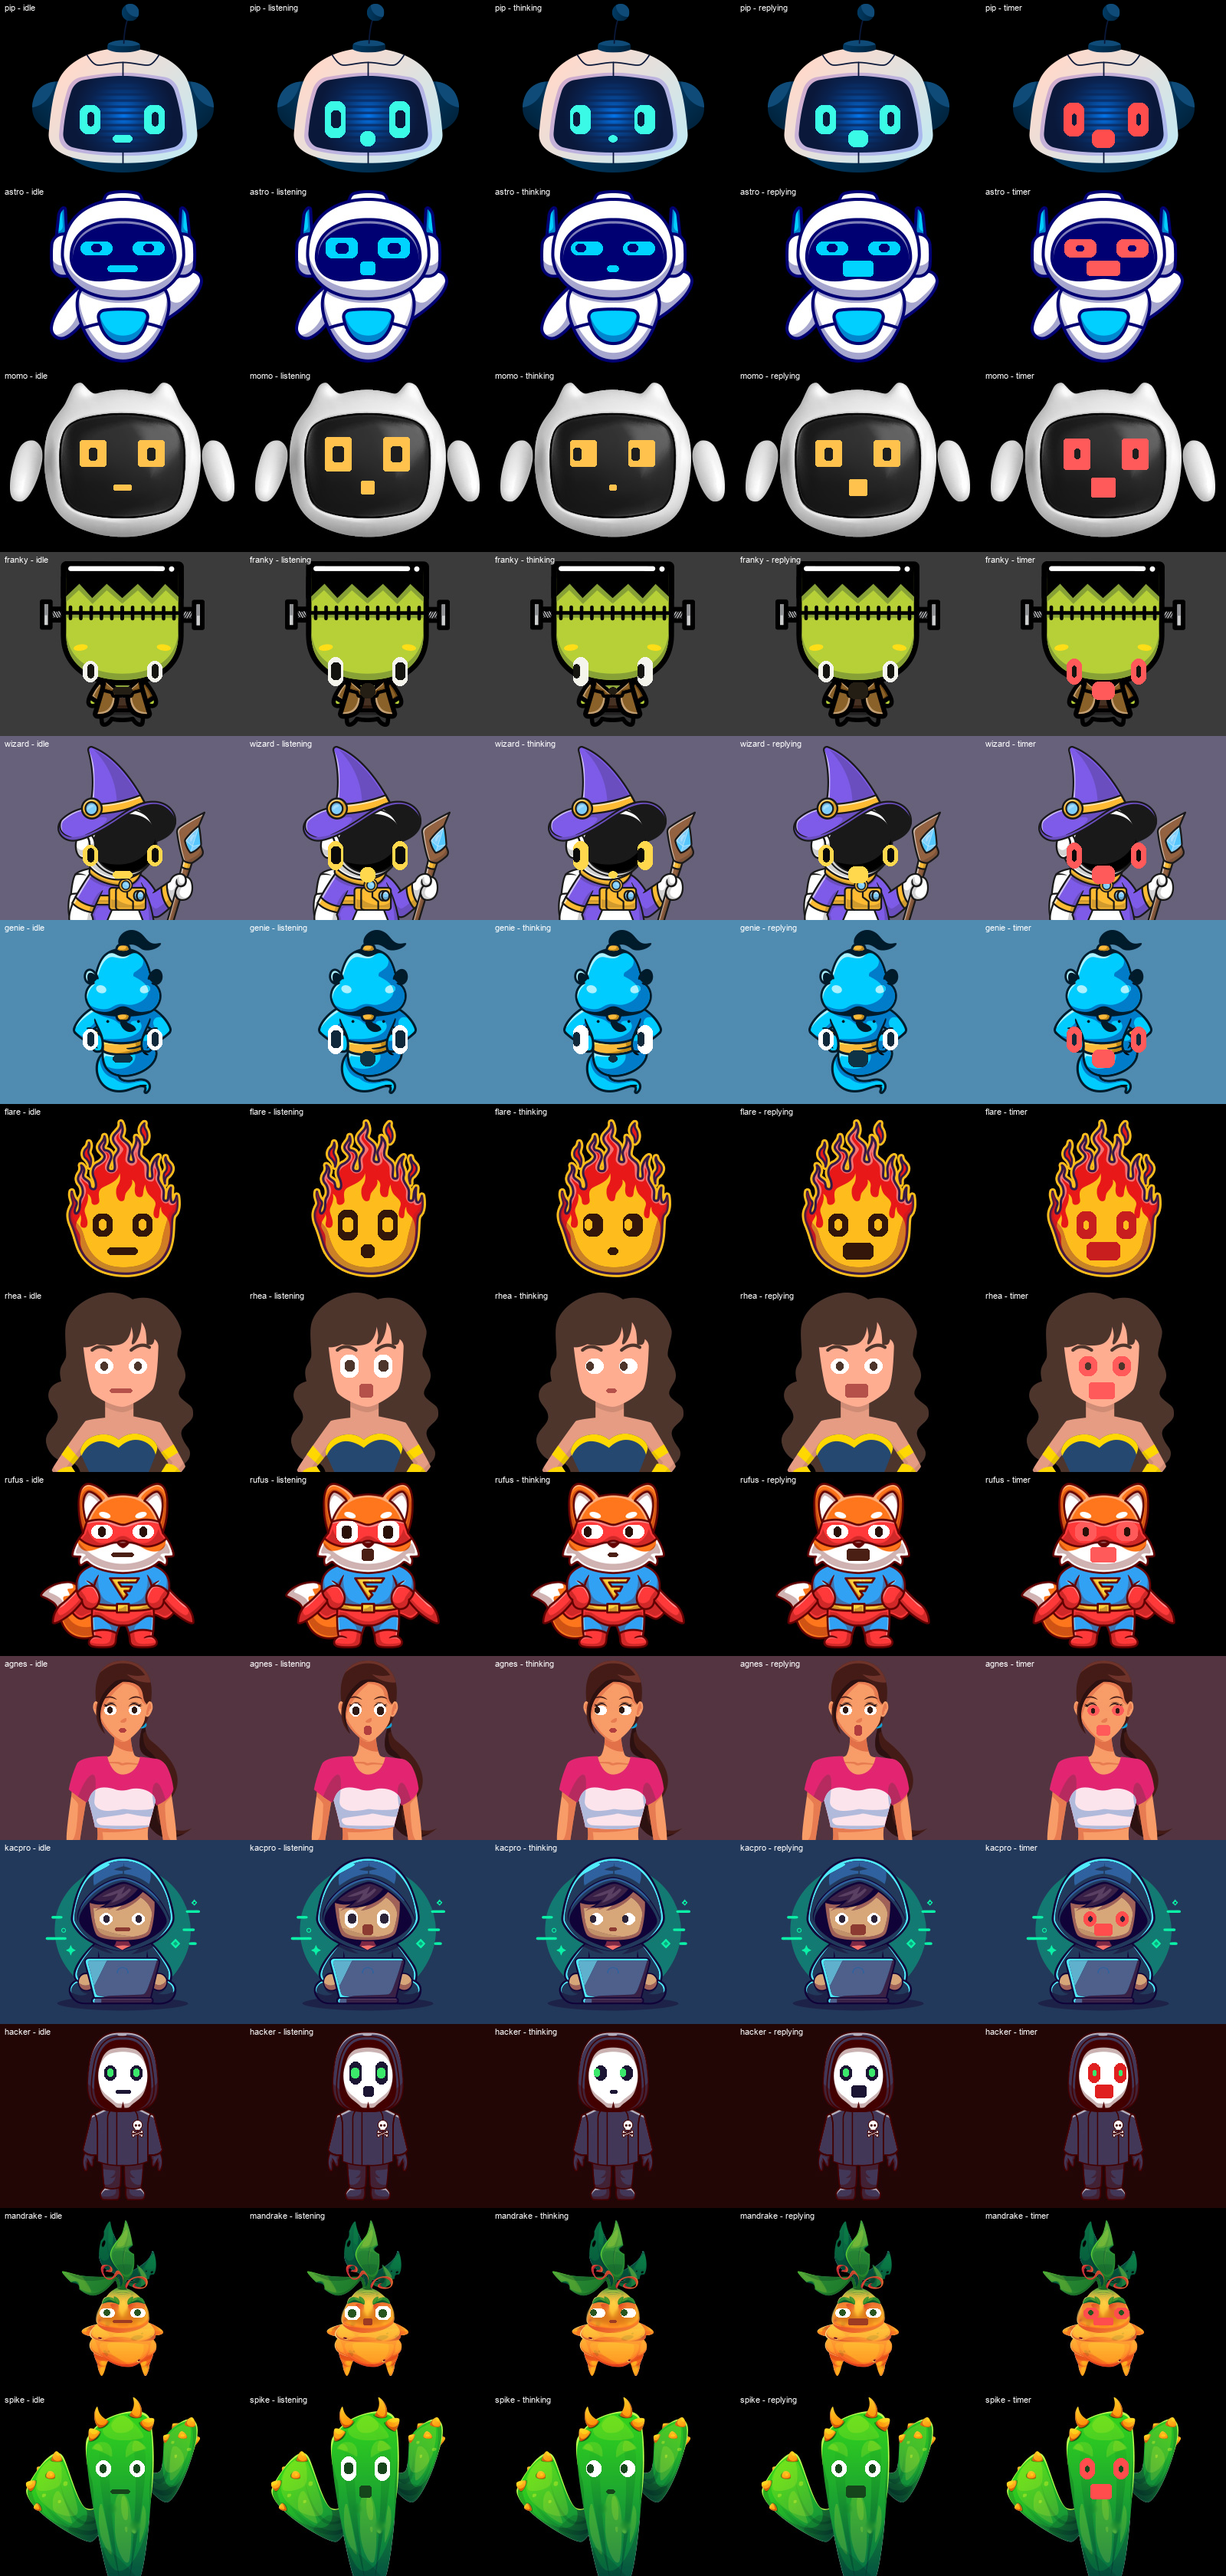
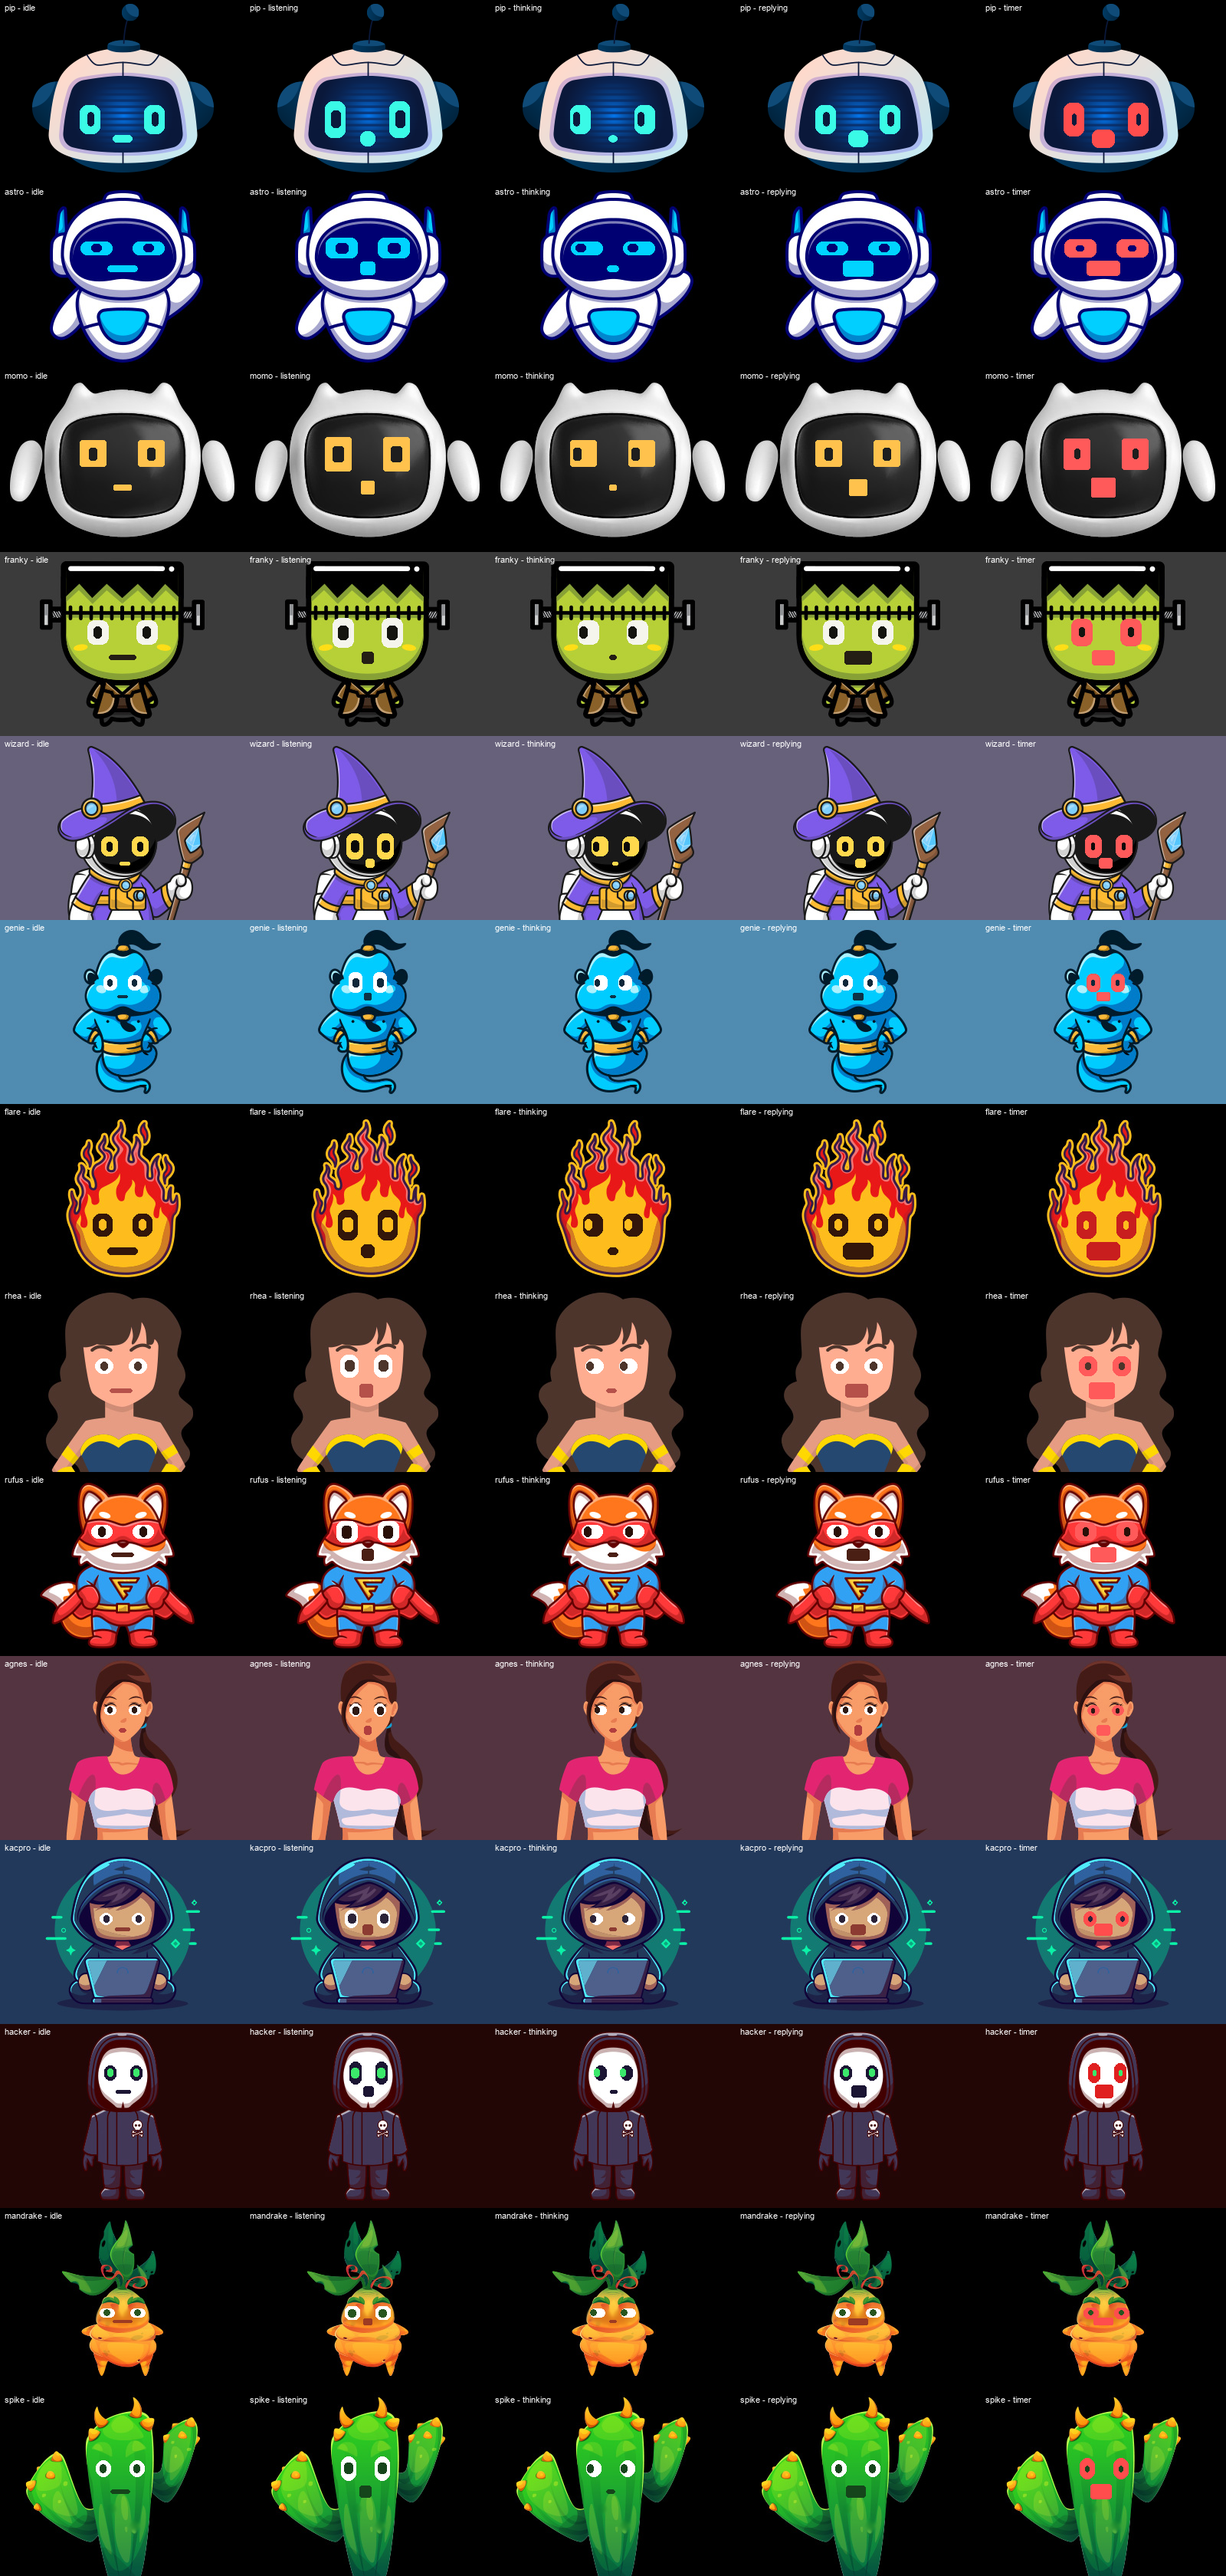
Fix the generated-file check, and the drift it was hiding
check_generated.py compared bytes. The generators write "\n" and a
Windows checkout with core.autocrlf=true holds "\r\n", so it reported all
seven generated characters as drifted on every run, everywhere. A check
that always fails says nothing, and this one had something to say.

`skip: true` on page_face was added to the seven files by hand when the
carousel landed, and never to the generators. Running any generator would
have dropped the line and put the character's page back into the swipe
ring, with no diff to explain it - exactly the failure this script exists
to catch. The generators emit it now, and the comparison normalises line
endings.

characters.png goes with them. The renderer behind it reads a character's
substitutions out of its YAML and took a comment in column 0 for the end
of the block; franky, genie, momo and wizard each have one in the middle
of theirs, so those four rows were drawn with the engine's defaults,
which are pip's numbers. Regenerated with all fourteen correct.

diff --git a/scripts/check_generated.py b/scripts/check_generated.py
@@ -36,13 +36,21 @@ def generated_files():
         if not (fn.startswith("gen_") and fn.endswith(".py")):
             continue
         text = io.open(os.path.join(GEN, fn), encoding="utf-8").read()
-        # Kazdy literal konczacy sie na .yaml. Szersze niz szukanie konkretnej
-        # zmiennej: gen_scope_vu.py sklada sciezke inaczej niz reszta (pisze dwa
-        # pliki), a wersja tego skryptu pilnujaca tylko jednego wzorca po cichu
-        # pomijala oba - czyli nie sprawdzala akurat tych, ktore najlatwiej
-        # przeoczyc.
-        for m in re.finditer(r'"([A-Za-z0-9_]+\.yaml)"', text):
-            names.add(m.group(1))
+        # Literal .yaml Z LINII, KTORA COS ZAPISUJE - czyli przypisanie do OUT
+        # albo open(..., "w"). Oba ksztalty wystepuja: reszta generatorow ma
+        # `OUT = os.path.join(...)`, gen_scope_vu.py sklada sciezke w wywolaniu
+        # open i pisze dwa pliki, a wersja pilnujaca tylko jednego wzorca po
+        # cichu pomijala oba.
+        #
+        # Sam literal nie wystarcza: gen_picker.py CZYTA base/screens/face.yaml
+        # i pliki postaci, zeby zebrac ich liczby. Wersja bez tego filtra brala
+        # face.yaml za plik generowany i wywracala sie, szukajac go w base/faces.
+        for line in text.splitlines():
+            if not (re.search(r"\bOUT\w*\s*=", line) or
+                    re.search(r'open\(.*"w"', line)):
+                continue
+            for m in re.finditer(r'"([A-Za-z0-9_]+\.yaml)"', line):
+                names.add(m.group(1))
     return sorted(names)
 
 
@@ -69,7 +77,11 @@ def main():
     for name in targets:
         path = os.path.join(FACES, name)
         after = io.open(path, encoding="utf-8", newline="").read()
-        if after != before[name]:
+        # Porownanie po normalizacji koncow linii. Generatory pisza "\n", a na
+        # Windows z core.autocrlf=true kopia robocza ma "\r\n", wiec porownanie
+        # bajt w bajt zglaszalo rozjazd wszystkich siedmiu plikow zawsze i u
+        # kazdego - czyli mowilo "FAIL" tam, gdzie nie bylo zadnej roznicy.
+        if after.replace("\r\n", "\n") != before[name].replace("\r\n", "\n"):
             drifted.append(name)
         # Przywracamy ZAWSZE, takze gdy sie zgadza - ten skrypt niczego nie zmienia.
         io.open(path, "w", encoding="utf-8", newline="").write(before[name])

diff --git a/scripts/gen/gen_scope_vu.py b/scripts/gen/gen_scope_vu.py
@@ -253,6 +253,7 @@ interval:
 lvgl:
   pages:
     - id: page_face
+      skip: true          # phase page / home's tap-toggle alt, never a carousel stop
       bg_color: ${scope_bg_color}
       # No scrollbar. These pages are drawn to fill the screen and there is
       # nothing to scroll to, but content sized to exactly 240 px renders a hair
@@ -494,6 +495,7 @@ interval:
 lvgl:
   pages:
     - id: page_face
+      skip: true          # phase page / home's tap-toggle alt, never a carousel stop
       bg_color: ${vu_bg_color}
       # No scrollbar. These pages are drawn to fill the screen and there is
       # nothing to scroll to, but content sized to exactly 240 px renders a hair

diff --git a/scripts/gen/gen_nixie.py b/scripts/gen/gen_nixie.py
@@ -233,6 +233,7 @@ interval:
 lvgl:
   pages:
     - id: page_face
+      skip: true          # phase page / home's tap-toggle alt, never a carousel stop
       bg_color: ${nixie_bg_color}
       # No scrollbar. These pages are drawn to fill the screen and there is
       # nothing to scroll to, but content sized to exactly 240 px renders a hair

diff --git a/scripts/gen/gen_kitt.py b/scripts/gen/gen_kitt.py
@@ -168,6 +168,7 @@ interval:
 lvgl:
   pages:
     - id: page_face
+      skip: true          # phase page / home's tap-toggle alt, never a carousel stop
       bg_color: ${kitt_bg_color}
       # No scrollbar. These pages are drawn to fill the screen and there is
       # nothing to scroll to, but content sized to exactly 240 px renders a hair

diff --git a/scripts/gen/gen_crt.py b/scripts/gen/gen_crt.py
@@ -257,6 +257,7 @@ interval:
 lvgl:
   pages:
     - id: page_face
+      skip: true          # phase page / home's tap-toggle alt, never a carousel stop
       bg_color: ${crt_bg_color}
       # No scrollbar. These pages are drawn to fill the screen and there is
       # nothing to scroll to, but content sized to exactly 240 px renders a hair

diff --git a/scripts/gen/gen_pixel.py b/scripts/gen/gen_pixel.py
@@ -270,6 +270,7 @@ interval:
 lvgl:
   pages:
     - id: page_face
+      skip: true          # phase page / home's tap-toggle alt, never a carousel stop
       bg_color: 0x000000
       # No scrollbar. These pages are drawn to fill the screen and there is
       # nothing to scroll to, but content sized to exactly 240 px renders a hair

diff --git a/scripts/gen/gen_rain.py b/scripts/gen/gen_rain.py
@@ -281,6 +281,7 @@ interval:
 lvgl:
   pages:
     - id: page_face
+      skip: true          # phase page / home's tap-toggle alt, never a carousel stop
       bg_color: 0x000000
       # NO SCROLLBAR. The columns are sized to fill the screen exactly - twelve
       # rows of 16 px text plus 4 px spacing is 240 - and "exactly" is the
